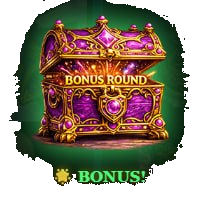
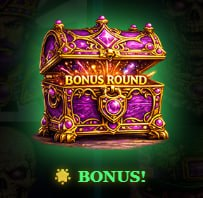
Slots2: revert chest img to original, remove bonus-hit glow only

diff --git a/slots2/index.html b/slots2/index.html
@@ -100,16 +100,15 @@
     .chest-btn {
       width: 140px;
       height: 140px;
-      background: transparent !important;
-      border: none !important;
-      outline: none !important;
+      background: none;
+      border: none;
+      outline: none;
       padding: 0;
       cursor: pointer;
       transition: transform 0.15s;
       position: relative;
       -webkit-appearance: none;
-      box-shadow: none !important;
-      border-radius: 0 !important;
+      box-shadow: none;
     }
     .chest-btn:focus,
     .chest-btn:focus-visible,
@@ -133,7 +132,6 @@
     }
     .chest-btn.bonus-hit img {
       animation: bonusFlash 0.4s ease-in-out 4;
-      filter: drop-shadow(0 0 20px rgba(74,255,122,1));
     }
 
     #chestMessage {
